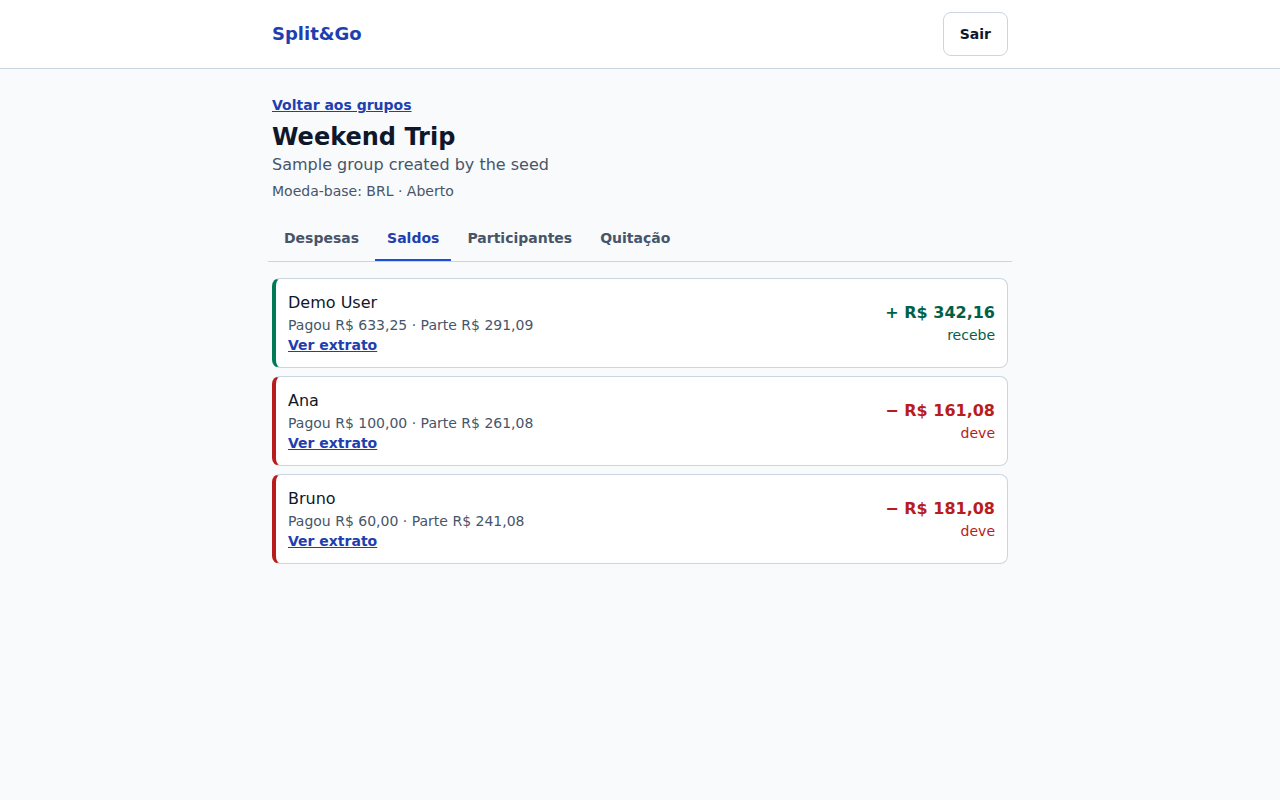
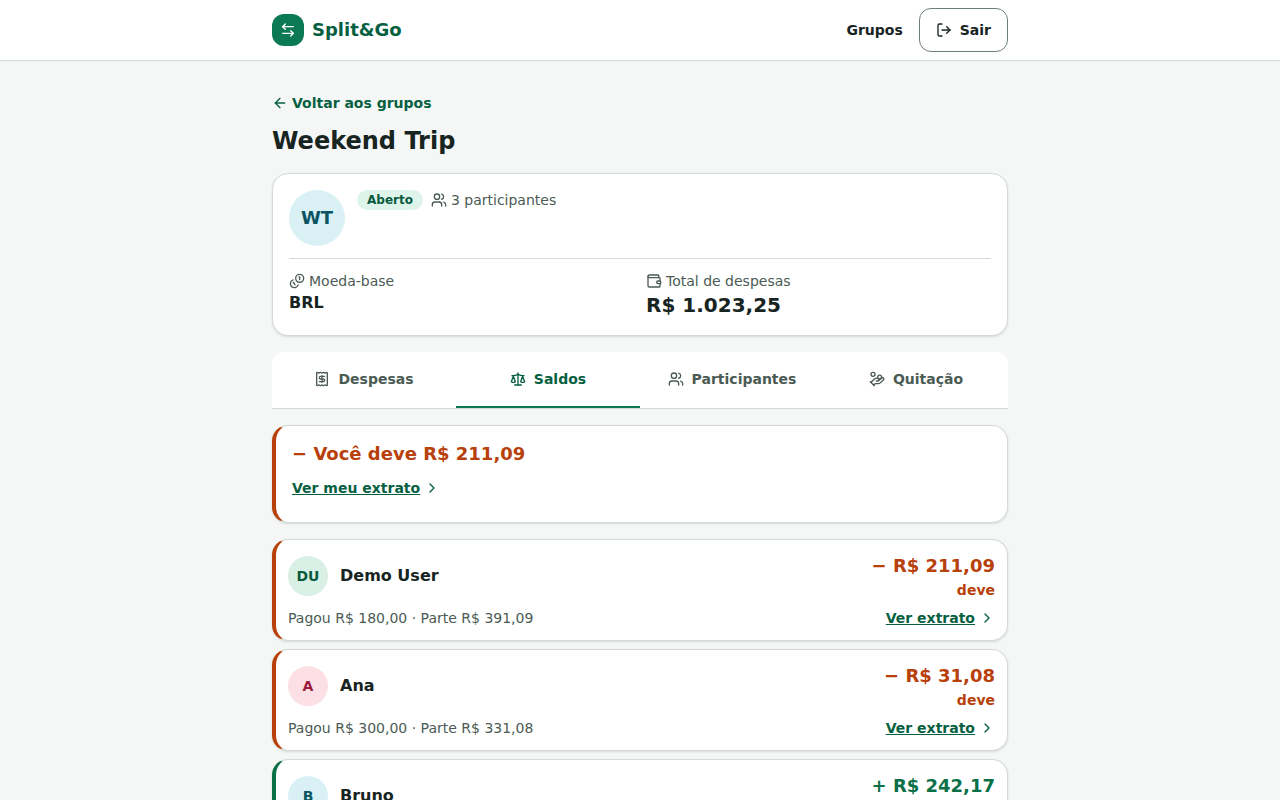
docs: refresh balances, statement and settlement screenshots
Refs #55

diff --git a/README.md b/README.md
@@ -174,9 +174,10 @@ O seed cria o grupo **Weekend Trip** (moeda-base BRL) com Demo User, Ana e Bruno
 | Participantes do grupo | ![Participantes](docs/assets/members-desktop.png) | ![Participantes no celular](docs/assets/members-mobile.png) |
 | Despesas (inclui a despesa em USD) | ![Despesas](docs/assets/expenses-desktop.png) | ![Despesas no celular](docs/assets/expenses-mobile.png) |
 | Formulário de despesa (USD, prévia do rateio) | ![Formulário](docs/assets/expense-form-desktop.png) | ![Formulário no celular](docs/assets/expense-form-mobile.png) |
-| Saldos | ![Saldos](docs/assets/balances-desktop.png) | ![Saldos no celular](docs/assets/balances-mobile.png) |
-| Extrato do participante | ![Extrato](docs/assets/statement-desktop.png) | ![Extrato no celular](docs/assets/statement-mobile.png) |
+| Saldos (destaque "Você recebe / Você deve" e cartões por participante) | ![Saldos](docs/assets/balances-desktop.png) | ![Saldos no celular](docs/assets/balances-mobile.png) |
+| Extrato do participante (saldo acumulado e valor convertido) | ![Extrato](docs/assets/statement-desktop.png) | ![Extrato no celular](docs/assets/statement-mobile.png) |
 | Quitação (plano de transferências) | ![Quitação](docs/assets/settlement-desktop.png) | ![Quitação no celular](docs/assets/settlement-mobile.png) |
+| Quitação com o grupo fechado ("x de y pagas" e status) | ![Quitação fechada](docs/assets/settlement-closed-desktop.png) | ![Quitação fechada no celular](docs/assets/settlement-closed-mobile.png) |
 | Confirmação de fechamento do grupo | ![Fechar grupo](docs/assets/close-dialog-desktop.png) | ![Fechar grupo no celular](docs/assets/close-dialog-mobile.png) |
 
 ## Como rodar localmente
